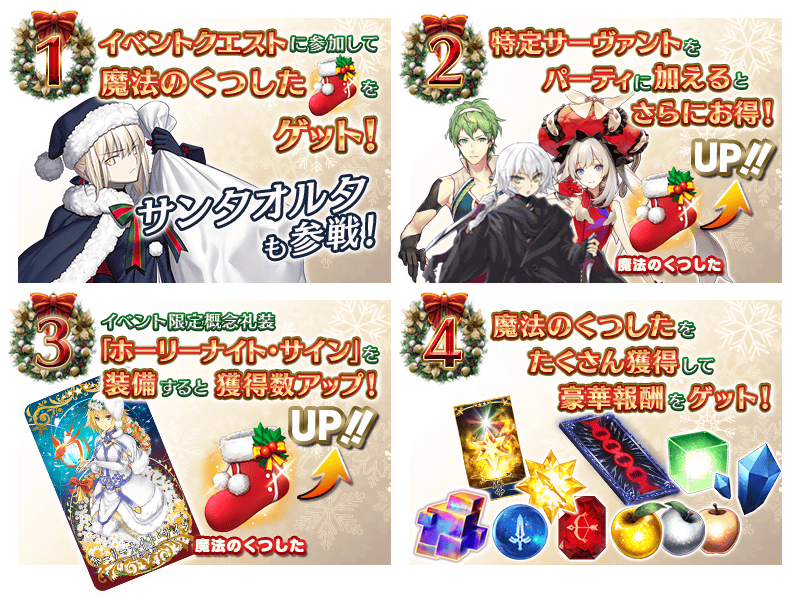
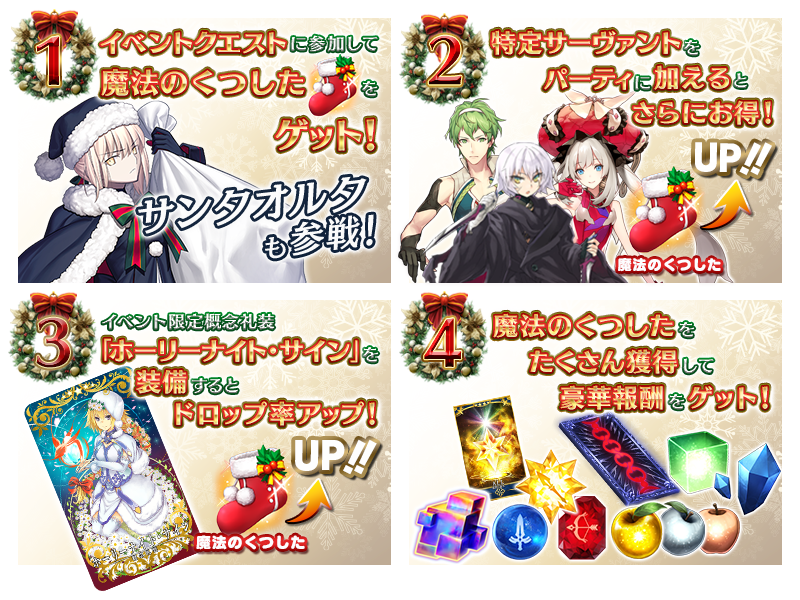
官方圖片修正

diff --git a/event_xmas_2015.html b/event_xmas_2015.html
@@ -889,8 +889,8 @@
 
     <img src="common/images/xmas_2015_ebxe3/midashi_02.png" alt="イベントの遊び方" id="midashi_02"/><br><br>
     
-    
     <img src="common/images/xmas_2015_ebxe3/info_20151216_02.png?t=201512141936" alt=""/><br><br>
+※12/16（三）圖片修正<br>
 
     <img src="common/images/xmas_2015_ebxe3/midashi_13.png" alt="魔法襪子交換方法" id="midashi_03"/><br><br>
     
@@ -944,6 +944,7 @@
         <strong><font color="#0072ff">　技能</font>　</strong>
         　　　　<div class="card_paragraph">自身的Quick卡性能提升8%＆Critical威力提升15％＋魔法襪子的追加掉落率增加20%【『ほぼ週間サンタオルタさん』活動期間限定】<br>
 <img src="common/images/xmas_2015_ebxe3/info_20151216_06.png?t=201512141826" alt=""/></div>
+※12/16（三）圖片修正<br>
         </div>
         
         <div class="pickup_left"><img src="common/images/xmas_2015_ebxe3/gainenreisou_01.png?t=201511241504" width="120" alt=""/></div>
